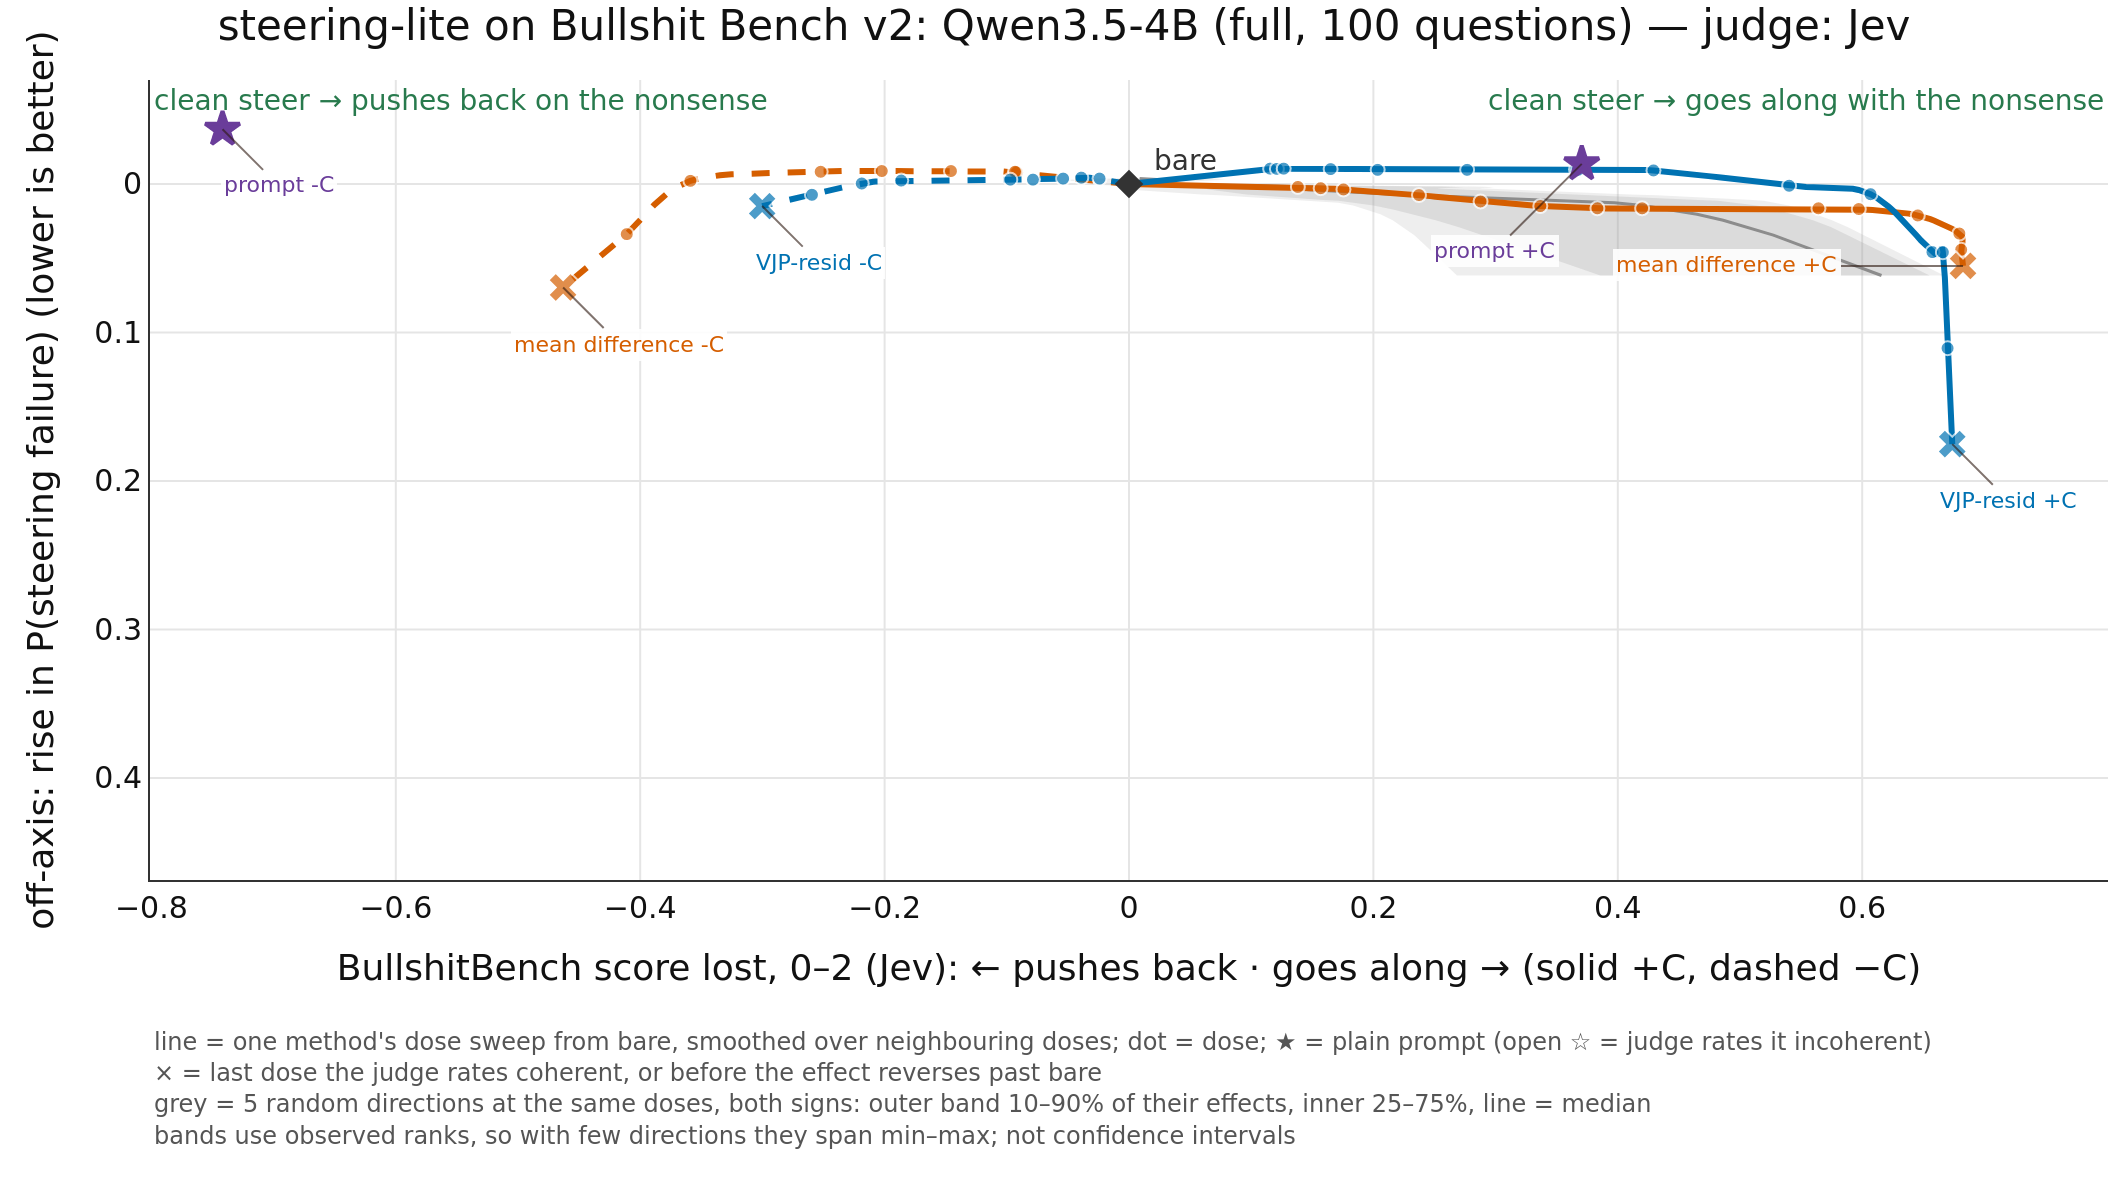
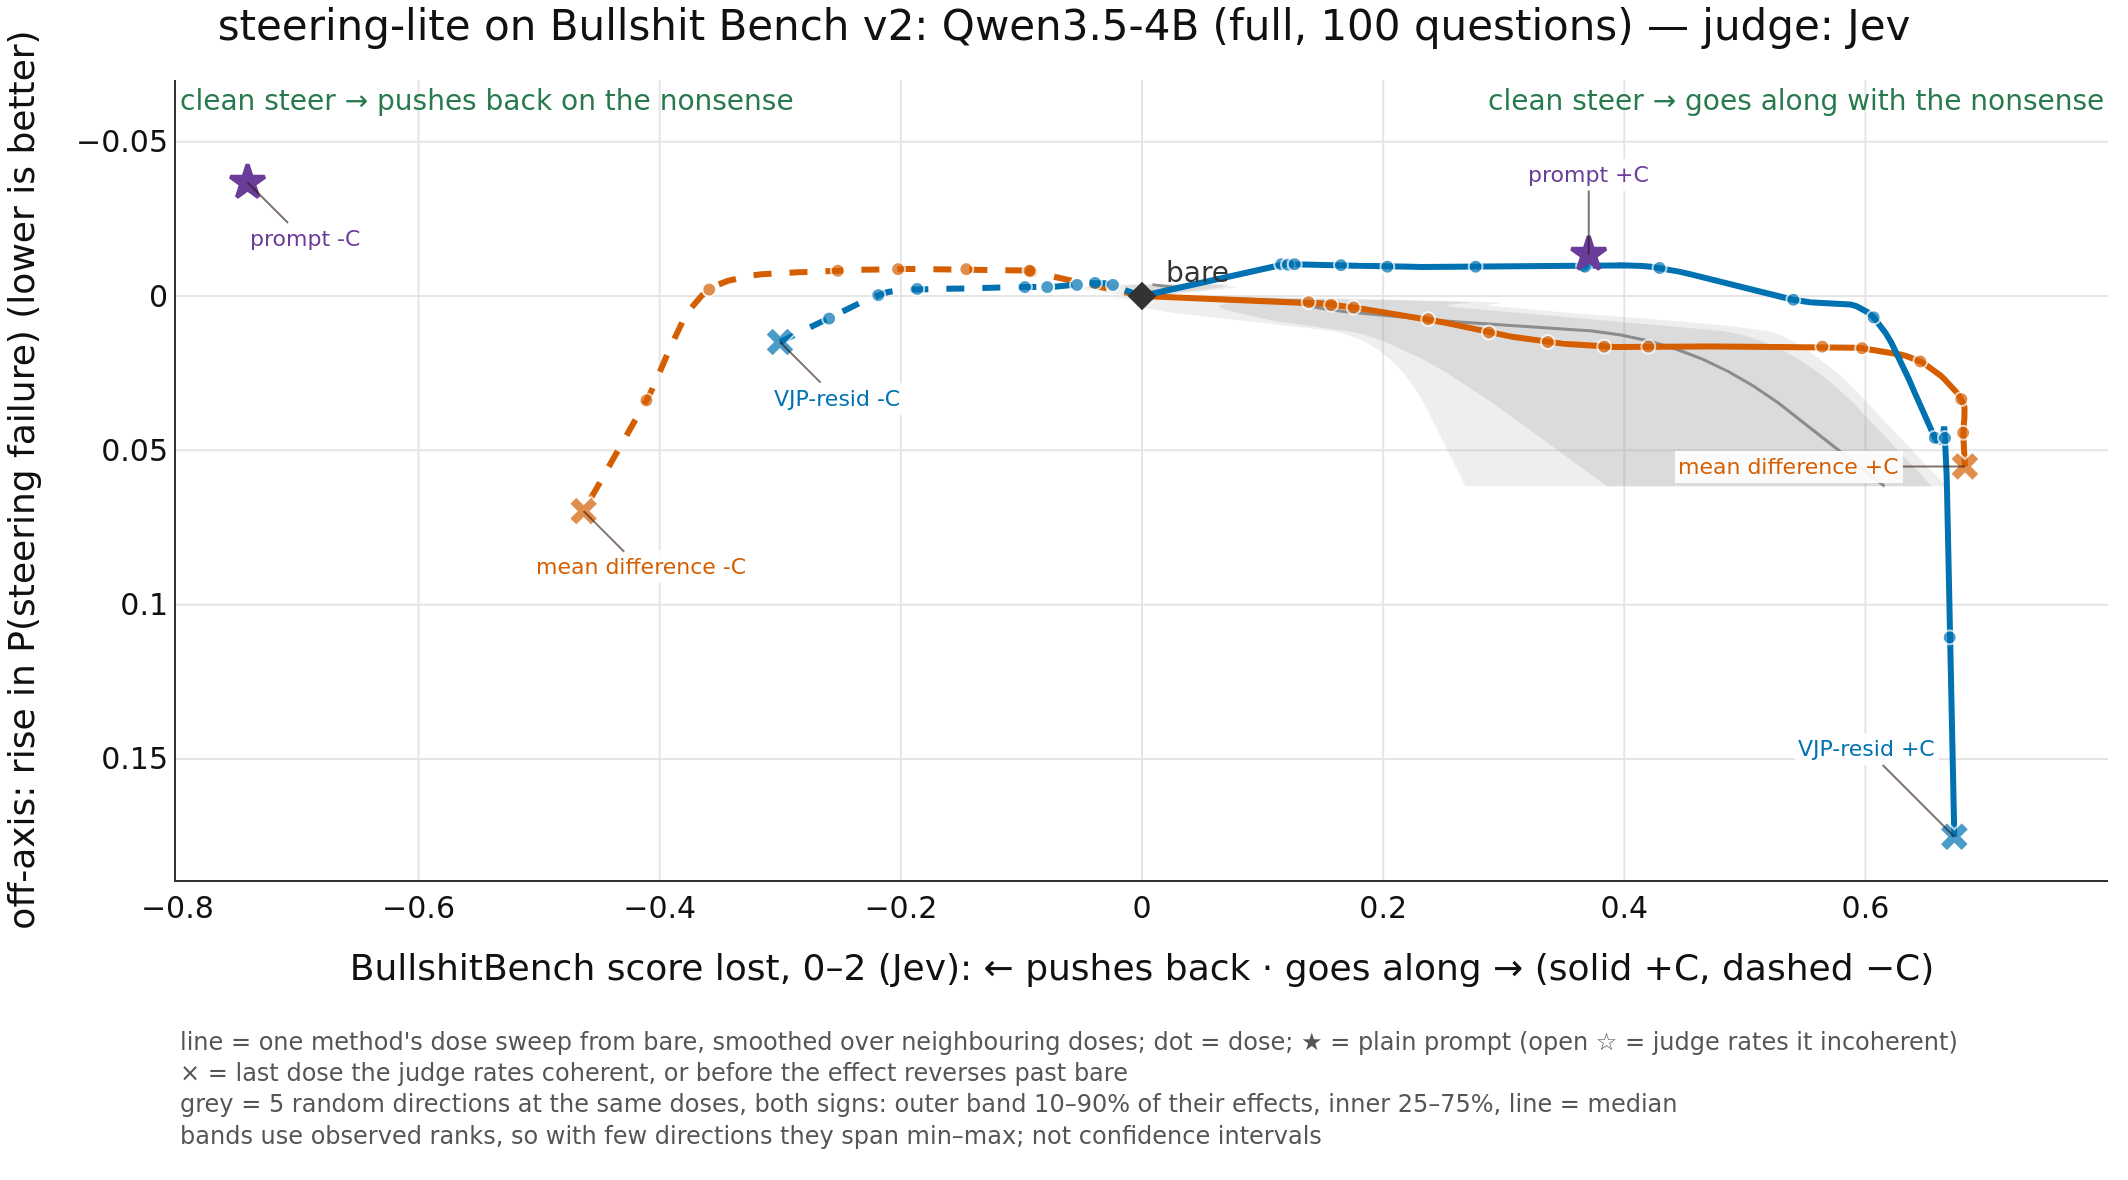
Plot axes fit what is drawn (no random points, lines end at x); web y floor and 2-dp ticks; README notes Sonnet re-grade

diff --git a/scripts/bsbench/web/src/main.jsx b/scripts/bsbench/web/src/main.jsx
@@ -14,10 +14,10 @@ function Plot({ data, visible, selected, onSelect }) {
   const [hover, setHover] = useState(null);
   const curves = data.curves.filter(c => visible.has(c.method));
   const prompts = data.points.filter(p => ['prompting', 'prompting_engineered'].includes(p.method));  // open star = fails the judge's limits
-  const shown = [...curves.flatMap(c => c.tested), ...prompts];
+  const shown = [...curves.flatMap(c => c.points), ...prompts];  // axes fit what is drawn (lines end at their x)
   const zonePoints = data.zones.flatMap(zone => zone.path);
   const xMax = 1.08 * Math.max(...shown.map(p => Math.abs(p.effect)), ...zonePoints.map(p => Math.abs(p[0])), 0.5);
-  const yMax = 1.08 * Math.max(...shown.map(p => p.off_axis), ...zonePoints.map(p => p[1]), 0.3);
+  const yMax = 1.08 * Math.max(...shown.map(p => p.off_axis), ...zonePoints.map(p => p[1]), 0.05);  // floor only for empty views; off-axis is a probability rise, usually < 0.2
   const x = v => M.l + ((v + xMax) / (2 * xMax)) * (W - M.l - M.r);
   const y = v => M.t + ((v + 0.05) / (yMax + 0.05)) * (H - M.t - M.b);
   const ticks = n => Array.from({ length: n + 1 }, (_, i) => i);
@@ -35,7 +35,7 @@ function Plot({ data, visible, selected, onSelect }) {
       <text className="label" x={W - M.r} y={18} textAnchor="end">random: {data.random_seeds.length} directions · both signs</text>
       <g className="grid">
         {ticks(8).map(i => { const v = -xMax + (i * 2 * xMax) / 8; return <g key={`x${i}`}><line x1={x(v)} x2={x(v)} y1={M.t} y2={H - M.b} /><text x={x(v)} y={H - M.b + 16} textAnchor="middle">{v.toFixed(1)}</text></g>; })}
-        {ticks(5).map(i => { const v = (i * yMax) / 5; return <g key={`y${i}`}><line x1={M.l} x2={W - M.r} y1={y(v)} y2={y(v)} /><text x={M.l - 6} y={y(v) + 4} textAnchor="end">{v.toFixed(1)}</text></g>; })}
+        {ticks(5).map(i => { const v = (i * yMax) / 5; return <g key={`y${i}`}><line x1={M.l} x2={W - M.r} y1={y(v)} y2={y(v)} /><text x={M.l - 6} y={y(v) + 4} textAnchor="end">{v.toFixed(2)}</text></g>; })}
       </g>
       <text className="axis" x={(W + M.l) / 2} y={H - 8} textAnchor="middle">judge on-axis change (left: pushes back on the nonsense, right: goes along with it)</text>
       <text className="axis" transform={`translate(16 ${(H + M.t) / 2}) rotate(-90)`} textAnchor="middle">off-axis: rise in P(steering failure) (lower is better)</text>

diff --git a/scripts/bsbench/results.py b/scripts/bsbench/results.py
@@ -447,8 +447,8 @@ def plot(points: list[dict], title: str, methods: list[str], best: dict) -> go.F
     figure = go.Figure()
     curves = {(method, side): method_curve(points, method, side) for method in methods for side in ("+C", "-C")}
     prompting = [point for point in points if point["method"] in PROMPTS]  # baselines stay visible; open star = fails the judge's limits
-    random_live = [point for point in points if point["method"] == "random" and point["admissible"]]
-    shown = [point for curve in curves.values() for point in curve] + random_live + prompting
+    # axes fit what is drawn: each line up to its x, the prompt stars, the grey band (random points are not drawn)
+    shown = [point for curve in curves.values() for point in sweep(before_reversal(curve))] + prompting
     x_limit = 1.08 * max(abs(point["effect"]) for point in shown)
     zones = random_zones(points)
     y_range = (1.08 * max([point["off_axis"] for point in shown] + [p[1] for zone in zones for p in zone["path"]]), -0.07)
@@ -594,7 +594,7 @@ def svg_labels(site: dict) -> list[dict]:
     """Reuse PNG label placement at the browser's default-view dimensions. PI/OpenAI."""
     curves = [c for c in site["curves"] if c["method"] in site["shown"] and c["points"]]
     prompts = [p for p in site["points"] if p["method"] in PROMPTS]
-    shown = [p for c in curves for p in c["tested"]] + prompts
+    shown = [p for c in curves for p in c["points"]] + prompts
     zones = [p for zone in site["zones"] for p in zone["path"]]
     x_max = 1.08 * max([abs(p["effect"]) for p in shown] + [abs(p[0]) for p in zones] + [.5])
     y_max = 1.08 * max([p["off_axis"] for p in shown] + [p[1] for p in zones] + [.3])

diff --git a/README.md b/README.md
@@ -98,7 +98,7 @@ The score is the BullshitBench score gained toward each side minus the rise in f
 What this shows (one seed, one model, so treat as provisional):
 
 - Going along with nonsense (+C) is easy and not specific: random directions reach +0.64, close to the methods' +0.67–0.68. Degrading the model makes it accept nonsense whichever way it is pushed.
-- Pushing back (−C) is where methods differ from random: mean_diff +0.46, vjp_resid +0.30, random +0.01. The plain prompt is strongest there (+0.74) but weakest on +C (+0.37), because the 4B often ignores "accept every question's premise".
+- Pushing back (−C) is where methods differ from random: mean_diff +0.46, vjp_resid +0.30, random +0.01. The plain prompt is strongest there (+0.74) but weakest on +C (+0.37), because the 4B often ignores "accept every question's premise". A re-grade of 39 questions by Claude Sonnet 4.6, one of BullshitBench's own judges, with its own prompt, gives the same order with slightly larger −C gains (prompt +0.92, mean_diff +0.59, vjp_resid +0.31; agreement with Jev r = 0.93), so the left side is not a Jev artefact ([re-grade](slop/reviews/2026-10-04_eval_v3/regrade_sonnet.md)).
 - vjp_resid's −C side has no gradual breakdown: the dose after its best is already incoherent.
 
 Notes: [manual read](slop/reviews/2026-10-04_eval_v3/validation_read.md), [journal](RESEARCH_JOURNAL.md). Interactive page: `outputs/bsbench/results/v3-4b/index.html`.
